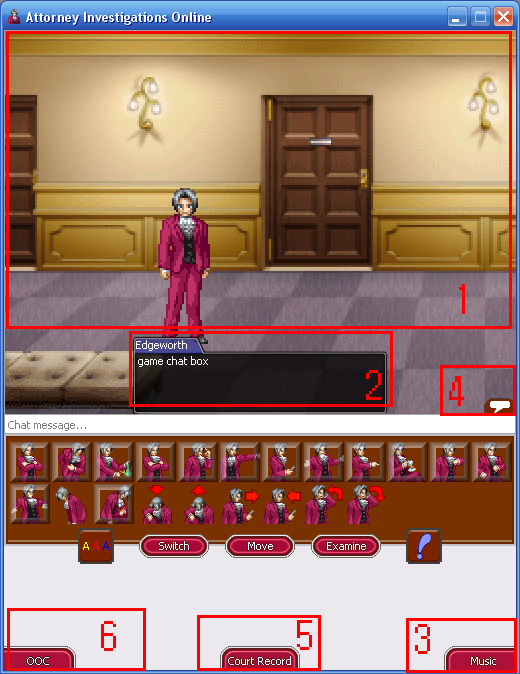
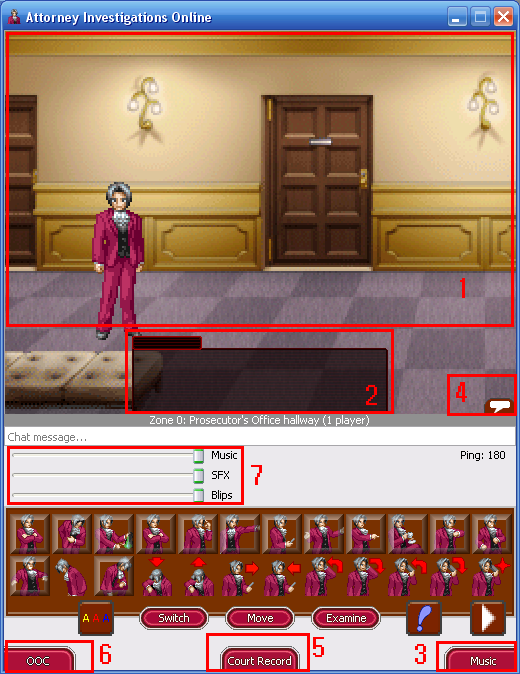
AIO 0.3.2 update (#5)

diff --git a/aaio.html b/aaio.html
@@ -8,7 +8,7 @@ var target = this.hash; var $target = $(target); $('html, body').stop().animate(
 </head>
 <body> <nav class="navbar fixed-top navbar-expand-lg navbar-dark bg-dark fixed-top"> <div class="container"> <button class="navbar-toggler navbar-toggler-right" type="button" data-toggle="collapse" data-target="#navbarResponsive" aria-controls="navbarResponsive" aria-expanded="false" aria-label="Toggle navigation"> <span class="navbar-toggler-icon"></span> </button> <div class="collapse navbar-collapse" id="navbarResponsive"> <ul class="navbar-nav ml-auto" id="navbarItems"> <li class="nav-item"> <a class="nav-link" href="https://aceattorneyonline.com/#">Home</a> </li> <li class="nav-item"> <a class="nav-link" href="https://aceattorneyonline.com/#about">About</a> </li> <li class="nav-item"> <a class="nav-link" href="https://aceattorneyonline.com/#download">Download</a> </li> <li class="nav-item"> <a class="nav-link" href="https://aceattorneyonline.com/#faq">FAQ</a> </li> <li class="nav-item"> <a class="nav-link" href="/help.html">Help</a> </li> <li class="nav-item"> <a class="nav-link" target="_blank" href="https://discord.gg/wWvQ3pw">Discord</a> </li> <li class="nav-item"> <a class="nav-link" href="/blog">Blog</a> </li> </ul> </div> </div> </nav>
 <div class="container" id="tutorial"> <h1 class="mt-4 mb-3" style="text-align: center;">Attorney Investigations Online</h1> <hr class="gold"> <div class="row" style="border: 1px solid #ffe591;border-radius: 25px !important;background: #2f2216;margin-bottom:20px;padding: 10px;">
-<div class="col-lg-12" style="text-align: center;"> <p><h2>Game version: v0.3.1</h2></p>
+<div class="col-lg-12" style="text-align: center;"> <p><h2>Game version: v0.3.2</h2></p>
 <p>Do you think AO doesn't satisfy you enough?<br />
 Tired of being fixed to desks?<br />
 Have you dreamed of navigating around the game world, like in Ace Attorney Investigations: Miles Edgeworth, while still playing online?<br />
@@ -17,35 +17,45 @@ Well, your dream's come true, because we bring you: Attorney Investigations Onli
  <font size=1><br />* this game is not affiliated with the AO team</font></p>
 <img class="img-fluid" src="images/screenshot104.png"><br /><br />
 <img class="img-fluid" src="images/screenshot105.png"><br /><br /><!-- allan please add more stuff showcasing the game (and details lol) --><h2 style="font-family: 'Poiret One', cursive;text-transform: uppercase;margin-bottom:0px;">Download</h2>
-<p><b>Game version: v0.3.1</b></p> <p> Download the full AIO v0.3 content <a href="http://tiny.cc/getaio">here.</a><br />You can check for updates <a href="http://tiny.cc/updateaio">here.</a><br />
-Extract the contents of the update on the folder you extracted the game in, and replace files if it asks you to.<br /><br />
+<p><b>Game version: v0.3.2</b></p> <p> Download the full AIO v0.3.2 game <a href="http://tiny.cc/getaio">here.</a><br />
 <b>NOTE: this game is still in an early development phase. Any bugs you find or questions you have, please read the Known Issues and FAQ sections at the bottom of this page.</b> </p></div>
 <hr><div class="col-lg-12 helpcontainer"> <h1 style="font-family: 'Poiret One', cursive;text-transform: uppercase;margin-bottom:10px;text-align:center;">Tutorial</h1><br />
 <h2 style="font-family: 'Poiret One', cursive;text-transform: uppercase;margin-bottom:10px;text-align:center;">The Client</h2> <img class="img-fluid" src="images/help_masterserver.png">
-<p>After you start the game, this will be the first thing you'll see. This is the server list menu. </p><h3> 1. The server list </h3> <p> This is the list of available servers you can join. Click a server to show information about it in the description.</p>
+<p>After you start the game, this will be the first thing you'll see. This is the server list menu. </p>
+<h3>1. The server list</h3>
+<p>This is the list of available servers you can join. Click a server to show information about it in the description.</p>
 <h3>2. Description</h3>
 <p>This text at the right of the window is a description of the server you've selected. It usually describes what kind of server it is, and non-vanilla servers put links to their custom content here. It's always a good habit to check the description before joining those (especially in AO).</p>
-<h3>3. Refresh/All servers/Favorites list/Join IP address</h3>
+<h3>3. Refresh/All servers/Favorites list/News/Join IP address</h3>
 <h5>Refresh</h5>
 <p>Click this to update the server list.</p>
-<h5>All servers/Favorites list</h5>
-<p>Click one of these to switch between your favorite servers, and the game's public servers.</p>
+<h5>All servers/Favorites list/tabs</h5>
+<p>Click one of these to switch between your favorite servers, the game's public servers, and news about the game.</p>
 <h5>Join IP address...</h5>
 <p>Click this button to manually enter the "IP address" of the server you wish to join. This is normally for advanced users.</p>
+<h3>4. Add to favorites/Connect</h3>
+<p>Click on either of these to add the selected server to your favorites list, or to join it.</p>
+<h3>5. Settings icon</h3>
+<p>Opens the settings dialog where you can change certain aspects of the game.</p>
 <hr><h2 style="font-family: 'Poiret One', cursive;text-transform: uppercase;margin-bottom:10px;text-align:center;">Choosing a character</h2>
-<img class="img-fluid" src="images/help_choosecharacter.png"> <p> This will be the first thing that you'll see after you join a server. All you have to do is select a character from the dropdown, and click "Confirm", or click "Disconnect" to return to the server list.</p>
+<img class="img-fluid" src="images/help_choosecharacter.png">
+<p>This will be the first thing that you'll see after you join a server. All you have to do is click the character of your preference, or click "Disconnect" to return to the server list.</p>
 <hr><h2 style="font-family: 'Poiret One', cursive;text-transform: uppercase;margin-bottom:10px;text-align:center;">In-Game</h2> <img class="img-fluid" src="images/help_ingame.png"> <p> Once you pick your character, you're ready to hop in on the fun. Here's a quick overview of the controls: Use the W, A, S and D keys to move, and the SHIFT key to run.<br />Now, let's analyze what we have here...
 <h3>1. Game Screen</h3>
-<p>The game screen is basically where all the action happens in the game and player sprites are visible, as well as the game camera following your character.</p>
+<p>The game screen is basically where all the action happens in the game and player sprites are visible, as well as the game camera following your character.<br />
+Clicking somewhere on the game screen will make your character look at that direction.</p>
 <h3>2. Chat box</h3>
-<p>This little transparent box below the game screen is the chat box. It is where messages sent by other players (or you) appear. It works just like on AO: One message will appear after another, and will be recorded on the Chat History. (4)</p> <h3>3. Music button</h3>
+<p>This little transparent box below the game screen is the chat box. It is where messages sent by other players (or you) appear. It works just like on AO: One message will appear after another, and will be recorded on the Chat History. (4)</p>
+<h3>3. Music button</h3>
 <p> This button at the bottom right corner will show or hide the music list. The music list on AIO works just exactly as the music list on AO, so you should feel right at home.</p>
 <h3>4. Chat History button</h3>
 <p>This tiny little button with a chat bubble is the Chat History button. You can click this button to show all the messages that appeared on the Chat box and click it again to hide it.</p>
 <h3>5. Court Record button</h3>
 <p>Click this button to toggle the Court Record, where the evidence for the current zone you are in is saved. You can add, edit, delete or present evidence from within this menu.</p>
 <h3>6. OOC button</h3>
-<p>This button will toggle the OOC (Out-Of-Character) chat. You can chat with other players without interrupting ongoing cases, or use server commands. Available server commands will be shown just in a few moments.</p></p>
+<p>This button will toggle the OOC (Out-Of-Character) chat. You can chat with other players without interrupting ongoing cases, or use server commands. Available server commands will be shown just in a few moments.</p>
+<h3>7. Volume sliders</h3>
+<p>They adjust the volume for the three elements in the game: Music, sounds, and chat blips.</p></p>
 <hr><h2 style="font-family: 'Poiret One', cursive;text-transform: uppercase;margin-bottom:10px;text-align:center;">The Emotion Bar</h2> <img class="img-fluid" src="images/help_emotebar.png">
 <p> This is the most important thing to know, especially on AO. There are a few key things you should know about it:
 <h3>1. Emote Buttons</h3>
@@ -76,6 +86,13 @@ The same thing as tsuserver3, this sends a broadcast to all zones on the server 
 See some data from all online players, such as their PID (player ID), character name, the zone ID they're at, and their IP address. This command only works if you're an admin.<br /><br />
 <b>/kick &lt;PID&gt; [reason]</b><br />
 If you're an admin, and someone is breaking the rules, use this to kick them off the server. To view player IDs, see the above command. Specifying the reason is not necessary, but it's recommended to always do so.<br /><br />
+<b>/ban &lt;PID&gt; &lt;time format&gt; [reason]</b><br />
+Kicks a player away from the server and prevents them from joining until the specified amount of time has passed.<br />
+The time format can be expressed like this:<br />
+5 or 5m = 5 minutes<br />
+1h = 1 hour<br />
+1d = 1 day<br />
+0 = permanent ban (be careful with this!)<br /><br />
 <b>/play &lt;filename&gt;</b><br />
 Admin only command. Plays song "filename" on your current area.<br /><br />
 <b>/warn &lt;PID&gt; &lt;message&gt;</b><br />
@@ -89,17 +106,17 @@ The amount of commands available on the server may vary.<br /><br /></p>
 <hr><h2 style="font-family: 'Poiret One', cursive;text-transform: uppercase;margin-bottom:10px;text-align:left;">Known Issues</h2><p> * Collisions with walls are not completely correct; you might get stuck in walls once or twice. You can even move through certain walls.<br /></p>
 <hr><h2 style="font-family: 'Poiret One', cursive;text-transform: uppercase;margin-bottom:10px;text-align:left;">F.A.Q.</h2>
 <p><b>Q: How can I customize the game's theme?</b><br />
-A: For now, the only thing you can customize is the chat box. Open your game's folder, and enter the "data" folder, then the "misc" folder. Files prefixed with "chatbox_" on their name are the other chatboxes. To set it to this one, open the "aaio" text file (not game executable) on your main game folder (or "aaio.ini"), and navigate to the line where it says "Chatbox image". Modify the text after the "=" on this line to your desired chatbox name. Don't forget to include the ".png" part!<br /><br /
+A: For now, the only thing you can customize is the chat box. You can open the settings menu to change it.<br /><br />
 <b>Q: When I try to connect to a server, I get "Game version mismatch"...?</b><br />
-A: The server is running a different AIO version than you are. Try getting an update at <a href="tiny.cc/updateaio">tiny.cc/updateaio</a> if available, or check the server description if there is a download link for a custom client.<br />
-<b>NOTE and please read this I beg you: If you downloaded a custom client and it broke your computer, <font color=red><u>Do not blame me.</u> It's the server owner's fault for making malicious code, and your fault for trusting strangers' custom clients.</font>
-I am <u>not</u> held responsible for any kind of damage occurred to your computer.</b><br /><br />
-<b>Q: I get a server on the list, but it says "Error connecting to master server".</b><br />A: The master server might be down at this moment. Try again later.
-<font size=1>i need a vps...</font><br /><br />
-<b>Q: What are these blue guys with yellow outlines?</b><br />
+A: The server is running a different AIO version than you are. Try getting an update at <a href="tiny.cc/updateaio">tiny.cc/updateaio</a> if available, or check the server description if there is a download link for a custom client.<br /><br />
+<b>Q: I get a server on the list, but it says "Error connecting to master server".</b><br />
+A: The master server might be down at this moment. Try again later.<br /><br />
+<b>Q: What are these blue guys with yellow outlines? Why do I see them?</b><br />
 A: This is a player using custom content that you don't have. Try asking them for the character's files, or check the server description for a link.<br /><br />
 <b>Q: Where are the characters' idle animations stored?</b><br />
-A: It's in one file: "spin.gif". The first frame of that image is the player looking south, and the last, 8th frame of the image is the player looking southeast.</p><br />
+A: It's in one file: "spin.gif". The first frame of that image is the player looking south, and the last, 8th frame of the image is the player looking southeast.<br /><br />
+<b>Q: Can I give a character a mugshot in the character selection screen?</b><br />
+A: This is optional since it automatically picks "spin.gif" for you, but in case if you really want a mugshot for your character, it must be named "char_icon.png", and must have a size of 64x64 pixels.</p><br />
 Well, that's all for now. Enjoy playing AIO!</p>
 </div></div></div><footer class="py-5 bg-dark"> <div class="container"> <p class="m-0 text-center text-white">&copy; AO <script> var today = new Date(); var year = today.getFullYear(); document.write(year); </script> </p> </div>
 </footer>
